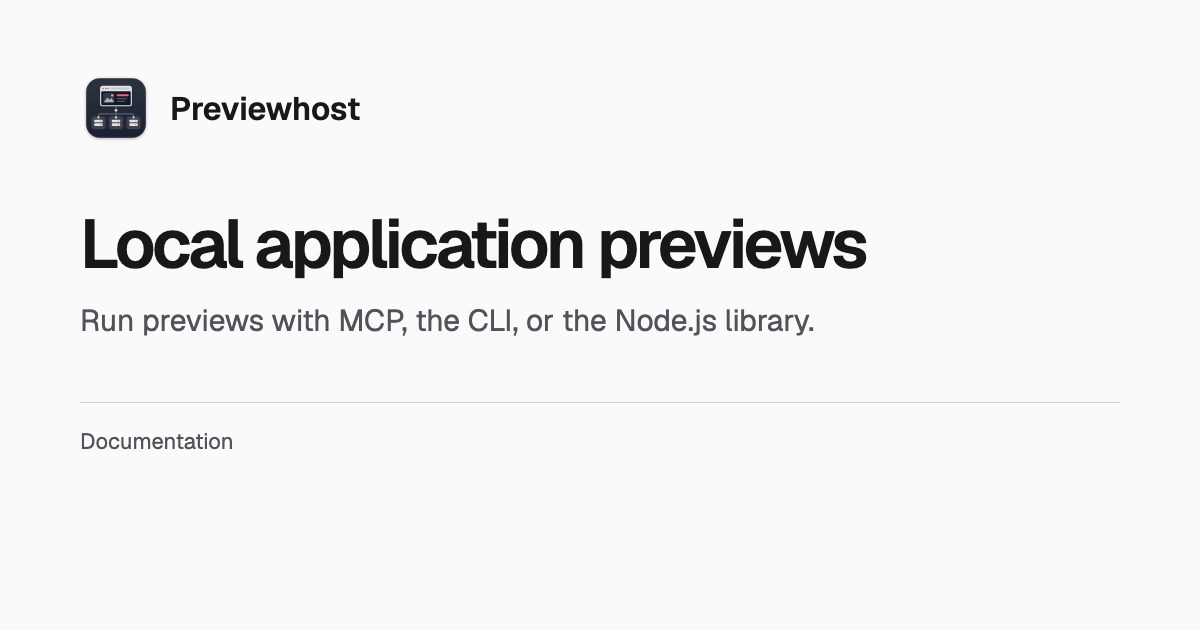
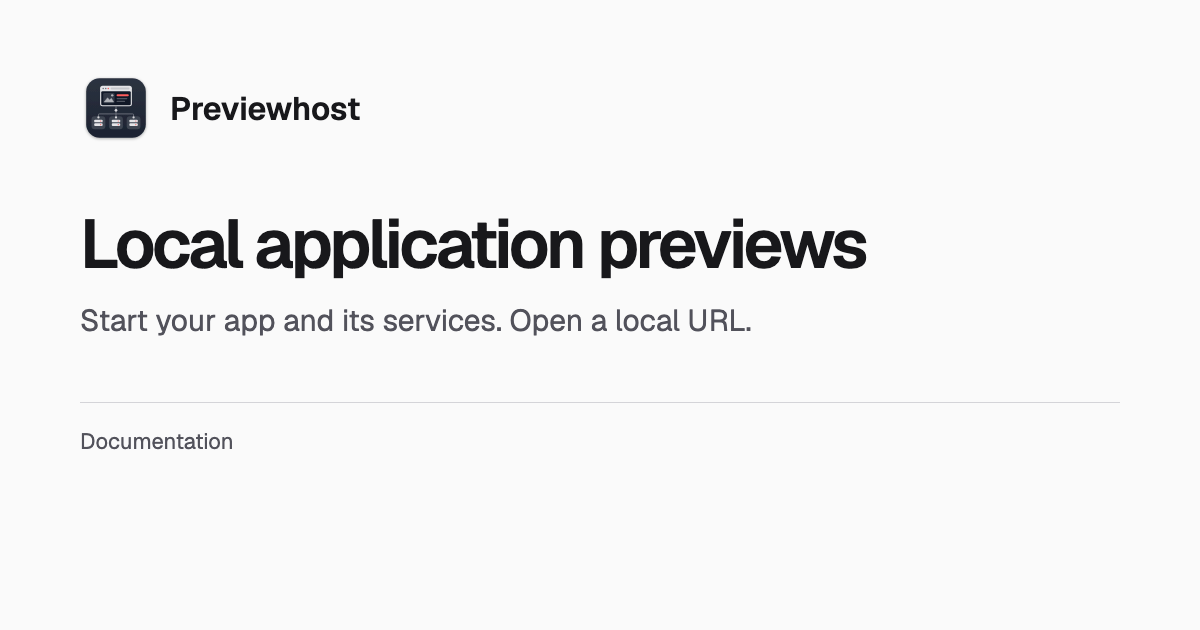
Explain documentation tasks in page descriptions and social copy

Changed region(s): [[0.0617, 0.4825, 0.6783, 0.5429]]

diff --git a/docs/api.md b/docs/api.md
@@ -1,6 +1,8 @@
 # API and CLI reference
 
-Look up runtime methods, spec fields, CLI flags, and MCP tool arguments. For a complete workflow, start with [MCP](mcp.md), [CLI](first-preview.md), or the [library](library.md).
+Find configuration fields, CLI commands, MCP tool arguments, and Node.js API methods.
+
+For setup instructions, see [MCP setup](mcp.md), [CLI quickstart](first-preview.md), or the [Node.js library](library.md).
 
 ## Runtime and client
 

diff --git a/docs/troubleshooting.md b/docs/troubleshooting.md
@@ -1,6 +1,6 @@
 # Troubleshooting
 
-Resolve Previewhost installation, startup, routing, database, and secret access errors. Recover an owner or inspect a failed preview.
+Fix missing commands, failed starts, broken connections, and a locked keystore. Check logs and recover previews after an error.
 
 Commands on this page use `previewhost` from PATH.
 For a local installation, use `./node_modules/.bin/previewhost` from your application directory.

diff --git a/docs/security.md b/docs/security.md
@@ -1,6 +1,6 @@
 # Ownership, security, and recovery
 
-Previewhost controls local processes and data with your user permissions. These boundaries explain what it owns, what it can access, and how cleanup works.
+Application commands run with your user permissions, without a sandbox. Stopping a preview ends its processes but keeps managed database data.
 
 ## Ownership
 

diff --git a/docs/secrets.md b/docs/secrets.md
@@ -1,8 +1,6 @@
 # Secrets
 
-Store credentials in an encrypted keystore and bind them to applications by name.
-
-Private setup handles access approval, password unlock, and missing values outside the agent conversation.
+Store API keys and passwords outside preview.yaml. Approve access and enter secret values in a private browser form.
 
 ## Declare references
 

diff --git a/docs/introduction.md b/docs/introduction.md
@@ -1,6 +1,6 @@
 # Introduction
 
-Previewhost runs local previews of your application and its services. Use a coding agent, the CLI, or the Node.js library to control them.
+Previewhost starts your app and its services on your machine, assigns local URLs, and keeps previews from different Git worktrees separate.
 
 ## Choose your starting point
 

diff --git a/docs/recipes.md b/docs/recipes.md
@@ -1,6 +1,6 @@
 # Write preview.yaml
 
-Describe your application's commands, readiness checks, and service connections in one file. The CLI and MCP can reuse it for each preview.
+Write preview.yaml to define your app's startup commands, service connections, and readiness checks.
 
 ## Choose an input
 

diff --git a/docs/databases.md b/docs/databases.md
@@ -1,6 +1,6 @@
 # Databases
 
-Use managed PostgreSQL or Redis for separate preview data. Connect an existing local database when another tool owns its lifecycle.
+Add PostgreSQL or Redis to a preview. Connect your app, keep data between runs, or delete it when finished.
 
 ## Choose who owns the data
 

diff --git a/docs/worktrees.md b/docs/worktrees.md
@@ -1,6 +1,6 @@
 # Worktrees
 
-Run separate previews from existing Git worktrees. Each worktree gets its own automatic owner, service ports, and managed database data.
+Run previews from several Git worktrees at once, with separate ports and managed databases for each worktree.
 
 ## Select a worktree
 

diff --git a/docs/integrations.md b/docs/integrations.md
@@ -1,6 +1,6 @@
 # Integrations
 
-Use MCP for a coding client, or configure an application's development server to run behind Previewhost's local URL.
+Configure Vite, Next.js, or a Python server for Previewhost. Check setup notes and tested behavior for coding agents.
 
 ## Connect an MCP client
 

diff --git a/docs/first-preview.md b/docs/first-preview.md
@@ -1,6 +1,6 @@
 # First preview with the CLI
 
-Run a frontend that requests a message from a backend. Previewhost supplies both ports and connects the two services.
+Start a frontend and API from your terminal. Open the local URL, read logs, update the app, and stop it.
 
 ## Create the example
 

diff --git a/docs/mcp.md b/docs/mcp.md
@@ -1,6 +1,6 @@
 # MCP setup
 
-Register Previewhost with your coding client so an agent can start, inspect, replace, and stop local previews across projects.
+Connect your coding agent to Previewhost so it can start your app, read logs, and stop the preview.
 
 ## Register a client
 

diff --git a/docs/library.md b/docs/library.md
@@ -1,6 +1,6 @@
 # Node.js library
 
-Run Previewhost inside a Node.js program. Your program owns the runtime and stops its previews when it closes the runtime.
+Serve a local page, check its response, and stop the preview from a Node.js program.
 
 ## Install and prepare a page
 
